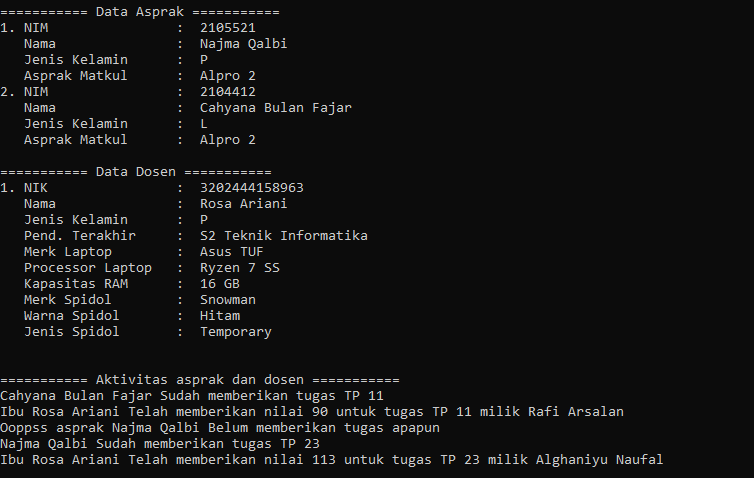
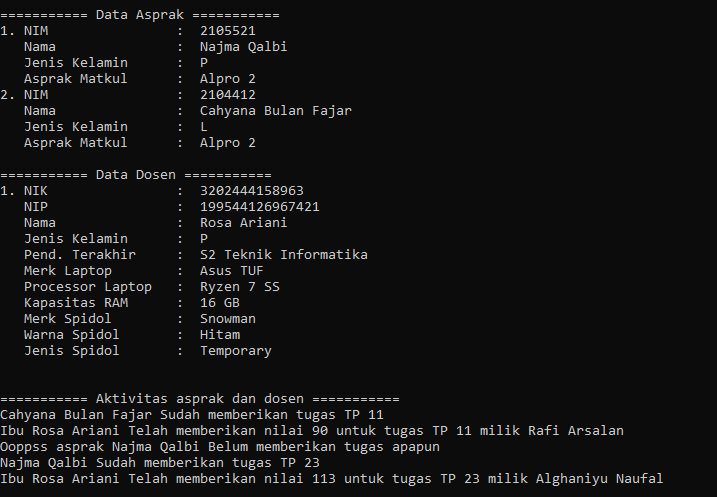
update main dan ss dosen

Changed region(s): [[0.0, 0.0, 0.5216, 0.7322], [0.0, 0.7615, 0.9205, 0.9958]]

diff --git a/Python/main.py b/Python/main.py
@@ -107,6 +107,7 @@ for mhs in listMhs:
 
 rosa = Dosen()
 rosa.setNik("3202444158963")
+rosa.setNip("199544126967421")
 rosa.setJk("P")
 rosa.setNama("Rosa Ariani")
 rosa.setPendTerakhir("S2 Teknik Informatika")
@@ -163,6 +164,7 @@ for asprak in listAsprak:
 
 print("\n=========== Data Dosen ===========")
 print("1. NIK                : ", rosa.getNik())
+print("   NIP                : " , rosa.getNip())
 print("   Nama               : " , rosa.getNama())
 print("   Jenis Kelamin      : " , rosa.getJk())
 print("   Pend. Terakhir     : " , rosa.getPendTerakhir())
